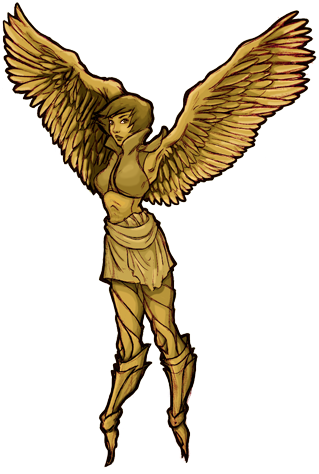
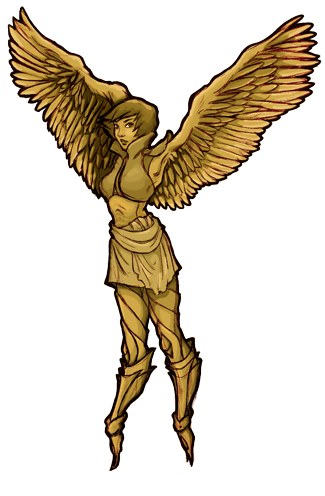
updated

Changed region(s): [[0.0, 0.0, 0.9875, 1.0]]

diff --git a/Views/contact.html b/Views/contact.html
@@ -57,10 +57,12 @@
                     <li>
                       <a href="../Views/home.html">Home</a>
                     </li>
-                    <li class="active">
+                    <li>
                       <a href="../Views/portfolio.html">Portfolio</a>
                     </li>
-                    <li><a href="../Views/contact.html">Contact</a></li>
+                    <li class="active">
+                      <a href="../Views/contact.html">Contact</a>
+                    </li>
                   </ul>
                 </div>
               </div>
@@ -70,61 +72,49 @@
       </div>
       <div class="content row">
         <div class="container">
-          <iframe
-            class="col col-lg-6 col-md-12 col-sm-12 col-xs-12"
-            width="560"
-            height="315"
-            src="https://www.youtube.com/embed/Le9o4PsSH1w"
-            frameborder="0"
-            allow="accelerometer; autoplay; clipboard-write; encrypted-media; gyroscope; picture-in-picture"
-            allowfullscreen
-          ></iframe>
-          <iframe
-            class="col col-lg-6 col-md-12 col-sm-12 col-xs-12"
-            width="560"
-            height="315"
-            src="https://www.youtube.com/embed/rhYd-Zfdt1I"
-            frameborder="0"
-            allow="accelerometer; autoplay; clipboard-write; encrypted-media; gyroscope; picture-in-picture"
-            allowfullscreen
-          ></iframe>
-          <iframe
-            class="col col-lg-6 col-md-12 col-sm-12 col-xs-12"
-            width="560"
-            height="315"
-            src="https://www.youtube.com/embed/4evvJ6td2TQ"
-            frameborder="0"
-            allow="accelerometer; autoplay; clipboard-write; encrypted-media; gyroscope; picture-in-picture"
-            allowfullscreen
-          ></iframe>
-          <iframe
-            class="col col-lg-6 col-md-12 col-sm-12 col-xs-12"
-            width="560"
-            height="315"
-            src="https://www.youtube.com/embed/Mf8gzCi3Qtg"
-            frameborder="0"
-            allow="accelerometer; autoplay; clipboard-write; encrypted-media; gyroscope; picture-in-picture"
-            allowfullscreen
-          ></iframe>
-          <figure class="col col-lg-6 col-md-12 col-sm-12 col-xs-12">
+          <div class="col col-lg-2"></div>
+          <div class="col col-lg-4 col-md-4 col-sm-5 col-xs-12">
             <img
-              class="img-responsive"
-              src="../Images/Portfolio/men002.jpg"
-              alt="men"
-              srcset=""
-              width="560"
-            />
-            <figcaption style="font-size: 2vw">Men</figcaption>
-          </figure>
-          <figure class="col col-lg-6 col-md-12 col-sm-12 col-xs-12">
-            <img
-              class="img-responsive"
-              src="../Images/Portfolio/pishy.jpg"
+              class="img-responsive pishy"
+              src="../Images/photo_2021-01-30_20-34-55(2).png"
               alt="pishy"
               srcset=""
+              height="380"
+              width="350"
             />
-            <figcaption style="font-size: 2vw">Pishy</figcaption>
-          </figure>
+          </div>
+          <div class="col col-lg-4 col-md-4 col-sm-6 col-xs-12">
+            <h1>Anahita Nezhadbakhtiari</h1>
+            <div>
+              <p>
+                <img src="../Images/smartphone-iphone-icon.png" /><a
+                  class="specs"
+                  href="tel:00989192896339"
+                  >00989192896339</a
+                >
+              </p>
+              <p>
+                <img
+                  src="../Images/iconfinder_social-whatsapp-circle_4017334.png"
+                /><a class="specs">00989192896339</a>
+              </p>
+              <p>
+                <img src="../Images/gmail-offline-icon.png" /><a
+                  class="specs"
+                  href="mailto: anahitanb56@gmail.com"
+                  >anahitanb56@gmail.com</a
+                >
+              </p>
+              <p>
+                <img src="../Images/LinkedIn-icon (1).png" /><a
+                  class="specs"
+                  href="https://www.linkedin.com/in/sina-nejadbakhtiari-88621089"
+                  >linkedin.com/in/sina-nejadbakhtiari-88621089</a
+                >
+              </p>
+            </div>
+          </div>
+          <div class="col col-lg-2"></div>
         </div>
       </div>
     </section>

diff --git a/Views/home.html b/Views/home.html
@@ -3,12 +3,14 @@
   <head>
     <meta charset="UTF-8" />
     <meta name="viewport" content="width=device-width, initial-scale=1.0" />
+    <link rel="shortcut icon" href="../Images/web0012323.png" type="image" />
     <title>Golden Deer</title>
     <link rel="stylesheet" href="../ref/css/bootstrap.min.css" />
     <link rel="stylesheet" href="../ref/css/style.css" />
+    <link rel="preconnect" href="https://fonts.gstatic.com" />
     <link
+      href="https://fonts.googleapis.com/css2?family=Bodoni+Moda:ital@1&display=swap"
       rel="stylesheet"
-      href="../ref/fonts/glyphicons-halflings-regular.eot"
     />
     <script src="../ref/js/jquery.js"></script>
   </head>
@@ -55,7 +57,7 @@
                       <a href="../Views/home.html">Home</a>
                     </li>
                     <li><a href="../Views/portfolio.html">Portfolio</a></li>
-                    <li><a href="#">Contact</a></li>
+                    <li><a href="../Views/contact.html">Contact</a></li>
                   </ul>
                 </div>
               </div>
@@ -65,28 +67,26 @@
       </div>
       <div class="content row">
         <div class="container">
-          <div class="main">
-            <div class="col col-lg-1 col-md-1"></div>
-            <p id="mainPara" class="col col-lg-4 col-md-5 col-sm-12 col-xs-12">
-              I have the ability to create animation, a talented and passionate
-              animator with 18 years of experience in creating explainer videos
-              and engaging animation for clients from different niches.
-              Including TV projects, branding work, and animated marketing
-              assets. Developed and designed movement animations, characters
-              animations, facial animations, environments, and performed other
-              story/animation tasks as requested. I can make a sprite sheet for
-              characters and environments.
-            </p>
-            <div class="col col-lg-1 col-md-1 col-sm-1 col-xs-1"></div>
-            <img
-              width="319"
-              height="474"
-              class="img-responsive angel col col-lg-4 col-md-4 col-sm-2 col-xs-2"
-              src="../Images/angel.png"
-              alt="angel"
-            />
-            <div class="col col-lg-1"></div>
-          </div>
+          <div class="col col-lg-1 col-md-1"></div>
+          <p id="mainPara" class="col col-lg-4 col-md-5 col-sm-12 col-xs-12">
+            I have the ability to create animation, a talented and passionate
+            animator with 18 years of experience in creating explainer videos
+            and engaging animation for clients from different niches. Including
+            TV projects, branding work, and animated marketing assets. Developed
+            and designed movement animations, characters animations, facial
+            animations, environments, and performed other story/animation tasks
+            as requested. I can make a sprite sheet for characters and
+            environments.
+          </p>
+          <div class="col col-lg-1 col-md-1 col-sm-1 col-xs-1"></div>
+          <img
+            width="325"
+            height="496"
+            class="img-responsive angel col col-lg-4 col-md-4 col-sm-2 col-xs-2"
+            src="../Images/angel.png"
+            alt="angel"
+          />
+          <div class="col col-lg-1"></div>
         </div>
       </div>
     </div>

diff --git a/ref/css/style.css b/ref/css/style.css
@@ -1,10 +1,11 @@
 body,
 html {
   height: 100%;
-  @font-face {
-    font-family: myFirstFont;
-    src: url(../fonts/glyphicons-halflings-regular.eot);
-  }
+  font-family: "Bodoni Moda", serif;
+}
+
+.content {
+  margin-bottom: 2%;
 }
 
 iframe {
@@ -18,8 +19,6 @@ iframe {
 #brandGoldenDeer {
   margin-left: 9%;
   color: #ffca4b;
-  /* color: #f3ad0b; */
-  /* text-shadow: 4px 2px 5px black; */
   text-shadow: 1px 1px 1px black;
   font-weight: bold;
   font-size: 27px;
@@ -34,88 +33,32 @@ iframe {
   text-shadow: 1px 1px 1px black;
 }
 
-/* .bg {
-    background: url('/Images/mine.jpg');
-    height: 100%;
-    background-position: center;
-    background-repeat: no-repeat;
-    background-size: cover;
-} */
-
-/* .main_bg {
-    width: 100%;
-    height: 100%;
-    background: url('/Images/web0012323\ \(2\).png') no-repeat;
-    background-position: center center;
-    background-size: 100% 100%;    
-} */
-/*.top_menu {
-    display: inline-block;
-    margin: 6.5% auto;
-    padding-left: 11.5%;
-    text-align: center;
-    list-style: none;
-}
-
-.top_menu>li {
-    float: left;
-}
-
-.top_menu>li>a {
-    display: block;
-    padding: 6px 50px;
-    text-transform: uppercase;
-
-} */
-
-/* .content {
-  margin-top: 3%;
-} */
-
-.main {
-  /* background-image: url(/Images/Papyrus.png);
-  background-repeat: no-repeat;
-  background-size: 88%; */
-  /* background-position: center; */
-  /* background-image: url(/Images/Papyrus.png); */
-  /* height: 80vh; */
-  /* margin-left: 7%; */
-  /* padding: 15% 5% 5% 5%; */
-  font-family: Georgia, "Times New Roman", Times, serif;
-  font-weight: 800;
-  /* height: 20px; */
-}
-
 #mainPara {
-  /* background-size: 100%;
-  background-repeat: no-repeat; */
-  /* position: absolute; */
-  /* right: 6vw; */
-  /* bottom: 12vh; */
-  /* margin-right: 100px; */
-  padding: 3%;
-  height: 30vw;
+  margin-top: 2vw;
+  padding-top: 2%;
+  height: 35vw;
   background-color: #f6bd60;
   border-radius: 5px;
-  /* width: 50%; */
-  /* font-size: 3vw; */
   overflow-y: auto;
-  /* text-align: center; */
-  line-height: 22px;
-  /* float: left; */
+  line-height: 27px;
   box-shadow: 10px 10px 5px grey;
-  font-size: 120%;
+  font-size: 140%;
+  font-weight: 700;
 }
 
 .angel {
-  /* float: right; */
-  /* position: absolute; */
-  /* bottom: 80px; */
-  height: 30vw;
-  width: 60vh;
-  /* margin-left: 120px; */
-  /* margin-top: 3%; */
+  height: 45vw;
+  width: 35vw;
 }
+
+.pishy {
+  border-radius: 10px;
+}
+
+.specs {
+  margin-left: 5px;
+}
+
 /* width */
 ::-webkit-scrollbar {
   width: 20px;
